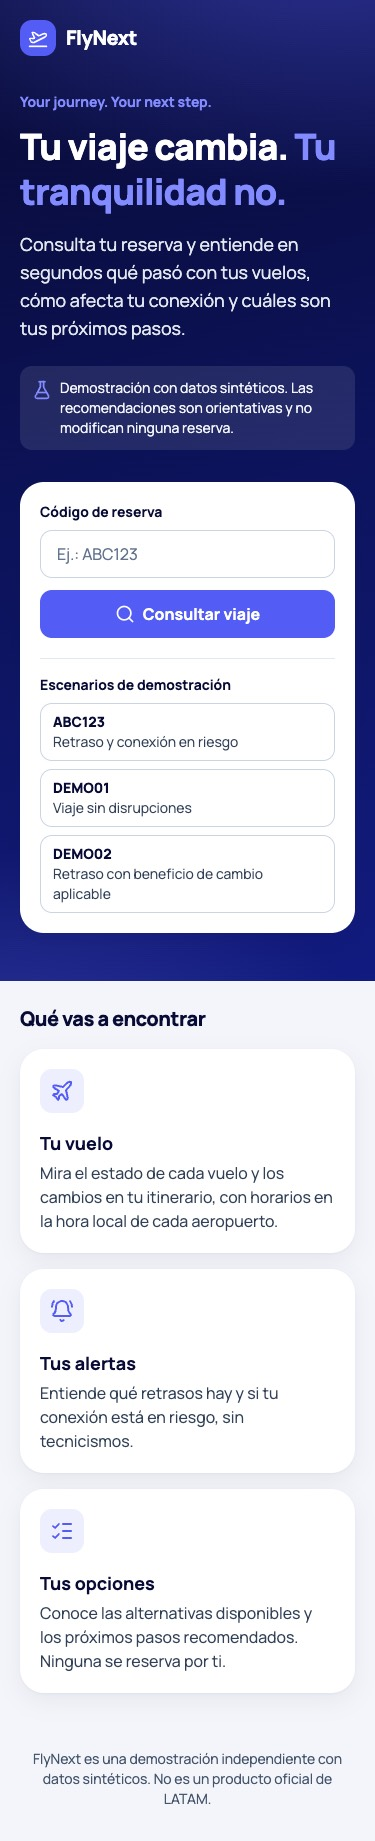
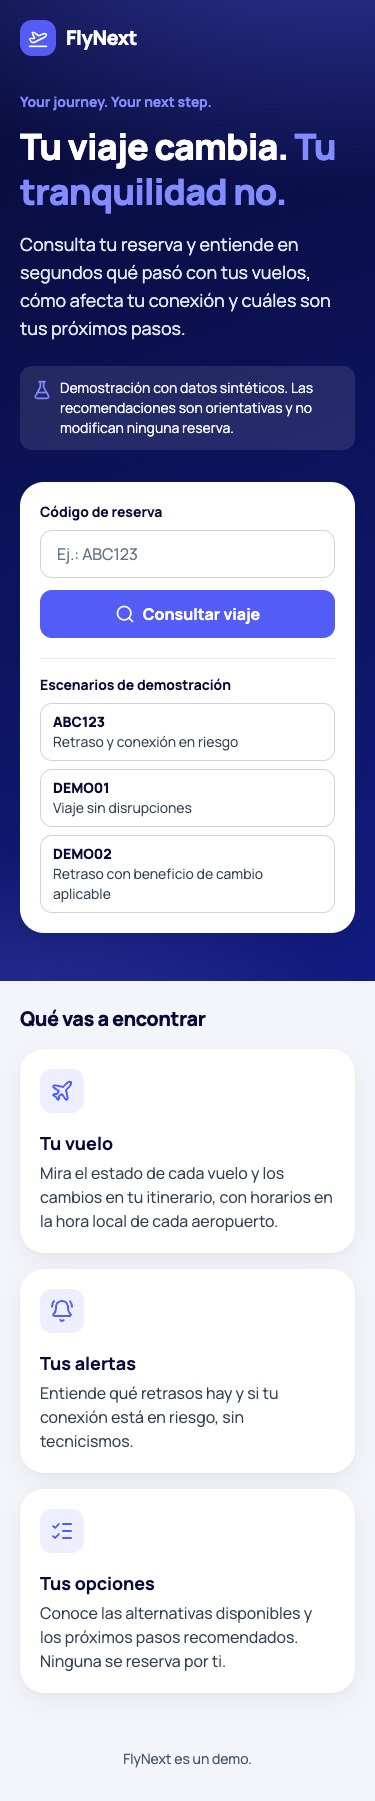
chore: present FlyNext as an independent demo

diff --git a/apps/api/src/disruption/presentation/present-assessment.test.ts b/apps/api/src/disruption/presentation/present-assessment.test.ts
@@ -190,9 +190,7 @@ describe("public assessment examples", () => {
       /atención prioritaria.*no podemos garantizar.*sin costo.*compensación/i,
     );
     expect(passengerCopy(dto)).toMatch(/no refleja información operacional en tiempo real/i);
-    expect(passengerCopy(dto)).not.toMatch(
-      /perdiste|conexión perdida|undefined|\bLATAM\b|[A-Z]+_[A-Z_]+/,
-    );
+    expect(passengerCopy(dto)).not.toMatch(/perdiste|conexión perdida|undefined|[A-Z]+_[A-Z_]+/);
   });
 
   it("changes the Spanish output with the flight, delay, gate and local time", async () => {

diff --git a/apps/api/src/app.test.ts b/apps/api/src/app.test.ts
@@ -646,7 +646,7 @@ describe("public information and documentation", () => {
     expect(response.json()).toEqual({
       name: "FlyNext",
       tagline: "Your journey. Your next step.",
-      notice: "Independent demonstration; not an official LATAM product.",
+      notice: "Independent demonstration with synthetic data.",
       docs: "/docs",
       health: "/health",
     });

diff --git a/apps/api/src/disruption/domain/config.ts b/apps/api/src/disruption/domain/config.ts
@@ -1,5 +1,5 @@
 /**
- * Product assumptions (not LATAM policy). Each value is configurable and awaits validation with
+ * Product assumptions (not an airline policy). Each value is configurable and awaits validation with
  * Product and Operations (D01, D03). Policy thresholds (R1 = 180, R2 = 240) are NOT here: they are
  * approved rule definitions in `policies.ts`.
  */

diff --git a/apps/api/src/http/public-api.ts b/apps/api/src/http/public-api.ts
@@ -5,7 +5,7 @@ export const PUBLIC_BOOKINGS = ["ABC123", "DEMO01", "DEMO02"] as const;
 export const serviceInfo = {
   name: "FlyNext",
   tagline: "Your journey. Your next step.",
-  notice: "Independent demonstration; not an official LATAM product.",
+  notice: "Independent demonstration with synthetic data.",
   docs: "/docs",
   health: "/health",
 };

diff --git a/apps/web/src/components/layout/footer.tsx b/apps/web/src/components/layout/footer.tsx
@@ -1,8 +1,7 @@
 export function Footer() {
   return (
     <footer className="mx-auto max-w-page px-5 py-8 text-center text-sm text-slate-600 sm:px-8">
-      FlyNext es una demostración independiente con datos sintéticos. No es un producto oficial de
-      LATAM.
+      FlyNext es un demo.
     </footer>
   );
 }

diff --git a/odd/tasks/flynext.md b/odd/tasks/flynext.md
@@ -1,13 +1,13 @@
 # FlyNext — ODD task file
 
-Independent demo for LATAM Senior SWE challenge, Case A (Disruption Companion). Primary track: Backend/Integration.
+Independent demo, Case A (Disruption Companion). Primary track: Backend/Integration.
 Source of truth for product: `docs/engineering/*`. This file tracks operational state. Workers: read until `## Log`; report which `S#` you covered.
 
 ## Specs
 
 Full text of D01–D10 lives in `docs/engineering/DOMAIN-DECISIONS.md`; the strings below are quoted from the approved Master Engineering Specification v1.0.
 
-- **S1 Identity.** Product "FlyNext"; repo "fly-next"; packages `@flynext/api`, `@flynext/web`, `@flynext/contracts`; tagline "Your journey. Your next step."; "FlyNext es una solución demostrativa independiente, no un producto oficial de LATAM."
+- **S1 Identity.** Product "FlyNext"; repo "fly-next"; packages `@flynext/api`, `@flynext/web`, `@flynext/contracts`; tagline "Your journey. Your next step."; "FlyNext es una solución demostrativa independiente, no un producto oficial de una aerolínea."
 - **S2 Challenge constraints.** "Presupuesto máximo efectivo: tres horas, incluyendo análisis, implementación, validación, documentación y preparación." Ten-minute presentation; public GitHub repo; API public over HTTPS; README ≤ 2 pages; AI Usage & Decision Note ≤ 1 page; reproducible evidence. "No reiniciar el presupuesto de tres horas."
 - **S3 Stack.** Node.js 24 LTS, TypeScript strict, pnpm workspaces, Fastify, React 19, Vite, Tailwind CSS v4, Axios, Zod, Vitest, Pino, Swagger/OpenAPI, ESLint, Prettier, tsup (if compatible), GitHub Actions, Railway, @fastify/static. "No incorporar Turborepo, NestJS, PostgreSQL, Redis, Prisma, servicios de mensajería ni frameworks adicionales sin autorización." Pin exact versions in PR-01; consult current docs (Context7) first.
 - **S4 Architecture.** Monorepo `apps/api`, `apps/web`, `packages/contracts`. Backend: pragmatic hexagonal, main module `disruption` with `domain`, `application`, `infrastructure`, `presentation`; cross-cutting: config, errors, HTTP client, observability. Manual DI, Ports & Adapters, DTO Mapper, Use Case; Strategy only on concrete need. "El dominio no depende de Fastify, Axios, React ni implementaciones de infraestructura." "No compartir entidades internas ni lógica de negocio con el frontend." No speculative abstractions or empty folders.
@@ -30,7 +30,7 @@ Full text of D01–D10 lives in `docs/engineering/DOMAIN-DECISIONS.md`; the stri
 - **S21 AI.** "No utilizar LLM ni agentes en runtime de V1." Document (not implement) a hybrid evolution: AI interprets/explains, deterministic engine is authority, read-tool allowlist, structured validated outputs, deterministic fallback, human approval for impactful ops, no LLM write access.
 - **S22 Security.** Synthetic fixtures only; no original PDF or process emails; no credentials/PII; no real env files; rate limiting; request size limit; sanitized errors; no stack traces; no full request body logging; read-only; document demo limitations. Review ODD/Engram/skills artifacts before publishing; no raw prompts, personal paths, auth config. Auth on real bookings is future work; "No simular mecanismos de seguridad inexistentes."
 - **S23 Testing.** Test-first when applicable. Priority: ABC123; source reconciliation; degraded sources; stale events; delay boundaries 179/180/239/240; international condition; at-risk vs confirmed missed; group with minor; insufficient seats; stale alternatives; incomplete fare conditions; provider failures; no PII in public DTO; REST contract via Fastify inject. Parameterized tests where clearer; no arbitrary coverage; no full E2E if time-constrained. Scenarios: ABC123 HUMAN_REVIEW; DEMO01 normal → NO_ACTION_REQUIRED; DEMO02 190-min delay, no-fee change; DEMO03 unresolved contradiction → INDETERMINATE; DEMO04 stale events → INDETERMINATE; DEMO05 international 250-min delay, no-fee change + voucher; DEMO06 confirmed missed connection, no-fee change. Prioritize ABC123 and critical scenarios. [A08] Public: ABC123, DEMO01, DEMO02; DEMO03–DEMO06 are test fixtures only.
-- **S24 Frontend.** Complementary; consumes real API; shows bookingId query, assessment status, itinerary, verified disruption, connection risk, recommendation, alternatives (verified/pending), loading/error/empty states, visible demo-mode label. Responsive, accessible. No business rules in React; no LATAM branding; no auth/admin/chatbot. May be cut to protect the primary track.
+- **S24 Frontend.** Complementary; consumes real API; shows bookingId query, assessment status, itinerary, verified disruption, connection risk, recommendation, alternatives (verified/pending), loading/error/empty states, visible demo-mode label. Responsive, accessible. No business rules in React; no airline branding; no auth/admin/chatbot. May be cut to protect the primary track.
 - **S25 Scripts.** `pnpm dev`, `dev:api`, `dev:web`, `build`, `build:api`, `build:web`, `start`, `start:api`, `test`, `lint`, `typecheck`, `check`. Pin Node and pnpm; commit lockfile; local/CI/Railway consistency.
 - **S26 Workflow.** ODD mandatory; this file is the task file; Engram mirror; work-unit-commits/chained-pr when applicable; test-first; RDD per risk and consent; inline for small tasks; no SDD/OpenSpec. "Cada PR constituye un límite de alcance autorizado." "No avanzar al siguiente PR sin autorización." No push, remote PR, merge, deploy or submission without specific authorization.
 - **S27 Docs & evidence.** Approved structure: AGENTS.md, odd/tasks/flynext.md, docs/engineering/{PRODUCT-SCOPE,ARCHITECTURE,DOMAIN-DECISIONS,API-CONTRACT}.md, docs/engineering/OBSERVABILITY.md (PR-04, G1), docs/evidence/{TOOLING,AI-DECISION-LOG}.md, docs/AI-USAGE.md (≤ 1 page), docs/DEMO.md, README.md (≤ 2 pages). No redundant docs. Engram is operational memory, not required to understand/run the project. "No fabricar evidencias."
@@ -90,9 +90,9 @@ Time reference (approved at G0; planning references, not measurements): budget 1
 
 **PR-05 Passenger Experience (20 min).** Frontend tests (deferred from PR-01 review); modern-web-guidance skill evaluated (S28); React 19 + Tailwind v4 app consuming the real API; states loading/error/empty; demo-mode label; responsive and accessible (keyboard, contrast, labels); served by Fastify at `/` without shadowing API routes; no business rules in React; design skills/MCP evaluated and recorded; cut allowed if it endangers PR-06/07.
 
-**PR-06 Engineering Documentation (25 min).** README ≤ 2 pages (problem, scope, decisions, alternatives, validation, automation limits, risks, next steps); `docs/AI-USAGE.md` ≤ 1 page; `docs/DEMO.md` presentation script (10 min); TOOLING.md and AI-DECISION-LOG.md reflect real usage; limitations declared; hybrid-AI evolution and write-contract design documented, not implemented.
+**PR-06 Engineering Documentation (25 min).** README ≤ 2 pages (problem, scope, decisions, alternatives, validation, automation limits, risks, next steps); `docs/AI-USAGE.md` ≤ 1 page; `docs/DEMO.md` presentation script (10 min); TOOLING.md and AI-DECISION-LOG.md reflect real usage; limitations declared; hybrid-AI evolution and write-contract design documented, not implemented. Independent identity: no reference to any airline brand or the challenge sponsor in README, docs, demo script, screenshots or metadata (case-insensitive search over the versioned tree must return no match).
 
-**PR-07 Release & Submission (15 min).** `pnpm check` green on clean clone and CI; public smoke tests on HTTPS (`/health`, `/docs`, ABC123 assessment); security/privacy sweep of repo and ODD/Engram/skills artifacts (no PII, secrets, raw prompts, personal paths); submission payload drafted; push/PR/merge/submit each separately authorized.
+**PR-07 Release & Submission (15 min).** `pnpm check` green on clean clone and CI; public smoke tests on HTTPS (`/health`, `/docs`, ABC123 assessment); security/privacy sweep of repo and ODD/Engram/skills artifacts (no PII, secrets, raw prompts, personal paths); submission payload drafted; push/PR/merge/submit each separately authorized. Independent identity: the case-insensitive brand search over the versioned tree and the PR/commit text must return no match before release (also recorded in AGENTS.md).
 
 ## Log
 
@@ -138,4 +138,5 @@ Time reference (approved at G0; planning references, not measurements): budget 1
 - **L25** (G4 closure): The maintainer authorized merge, Railway deployment and G4 closure. PR #4 (head `331259ba5486b1737365832083c7482b18c0b628`, PR CI run `45694387005` success, mergeable and clean) was merged preserving history as `a53fcd83b90f0886d5d18356f9902b46ddc0fd40` (parents `47994a3` and `331259b`; the merged tree equals the PR tree; only `docs/evidence/TOOLING.md` and `odd/tasks/flynext.md` differ from approved functional SHA `93c7ed5`). `main` CI run `45695022430` succeeded on the merge commit; the branch was not deleted. Railway: `LOG_LEVEL=info` set without redeploy (existing `HOST`, `NODE_ENV`, `RAILPACK_NODE_VERSION=24.15.0` kept; no new services or resources), then `railway up` from the clean `a53fcd8` checkout produced deployment `1322dfe1-614b-470d-acc8-c9f42eab8ff9` (SUCCESS) at https://flynext-api-production.up.railway.app; the previous deployment `8e462997-e14d-4331-b903-68fee81a258b` moved to REMOVING. Public smoke over HTTPS passed: `/` 200 informational, `/health` 200, `/docs` Swagger UI, `/docs/json` OpenAPI 3.1 with the assessment path; ABC123 200 PARTIAL/CRITICAL/AT_RISK/HUMAN_REVIEW/HIGH, LA500 delay CONFIRMED 160, gate 24, no executed actions, mode SIMULATION; DEMO01 200 COMPLETE/NO_ACTION_REQUIRED; DEMO02 200 COMPLETE/REVIEW_REBOOKING_OPTIONS with R1 REBOOK_NO_FEE APPLICABLE; invalid body 400 and unknown booking 404 as problem+json with matching `X-Request-Id`; unknown route 404 sanitized with no request ID (accepted, D01); DEMO03–DEMO06 return 404 BOOKING_NOT_FOUND on the public API (test fixtures only, A08). No names, emails, stack traces or paths in the assessment bodies. Railway logs showed correlated structured events (`provider.read` with `durationMs`, `assessment.completed`, `assessment.data_quality`) and no booking identifiers. Rate limiting: the limiter keys on the direct peer IP with `trustProxy` off; independence between clients behind the Railway proxy could not be demonstrated without exhausting the shared quota, so the documented limitation stands (R1-001, R4-002). Native review coverage remains partial as in L23; no integral native review is claimed; RDD stays off for this clone only. PR-05 not started; no skills installed.
 - **L26** (user, PR-05 authorization, 2026-11-25): "Autorizo iniciar e implementar PR-05 — Passenger Experience." Branch `feat/passenger-experience` from `bd6ab50`; local commits only; "No hacer push. No hacer merge. No desplegar en Railway. No cerrar G5. No iniciar PR-06. No activar RDD." Delivered: feature-first React app (`features/disruption`), Fetch client with timeout/abort/stale-response guard validated by the shared Zod schemas, eight UI states, `@fastify/static` integration (`GET /` serves the build; unknown routes keep the sanitized 404; API-only start when no build), 10 web tests and 4 static-integration tests. Node 24.15.0 / pnpm 12.16.1: frozen install, `pnpm check` (50 + 280 + 10), all builds, `git diff --check` and local smoke passed. Skills were evaluated read-only and not installed (see TOOLING.md). Open: keyboard/contrast/screen-reader audit was not tooling-verified; UI tests were not test-first. Commits: f79fe3d (dependencies), 566cb01 (static serving), d132b25 (web app), docs commit; about 1.6k authored lines, past the ~400 guideline (about 380 are generated synthetic JSON fixtures and 500 are tests), kept as one cohesive web unit. G5 stays open; PR-06 not started.
 - **L27** (user, PR-05 visual polish, 2026-11-25): "Autorizo una última intervención exclusivamente visual antes de publicar PR-05." Scope: home overview cards (Tu vuelo / Tus alertas / Tus opciones, informational), two-line headline with Soft Indigo second line, assessment refinements (large delay minutes and gate tiles, dashed Lucide route line, two-column result header), no backend, contract, dependency or architecture change. Done in one visual commit; `pnpm check` (50 + 280 + 10), `pnpm build` and `git diff --check` passed; four screenshots regenerated; no horizontal overflow at 375/390/768/1024/1440 px. Bounded accessibility check (computed, no tools installed): Soft Indigo on Midnight 6.39:1 and on Deep Blue 4.75:1 (about 3.6:1 only inside the top-right glow, large text); white on Primary Indigo 4.98:1; focus ring Indigo 3.8:1 on Midnight and 4.98:1 on white; secondary slate text 6.9-10.4:1; keyboard Tab order input, submit, three scenarios with a 3 px visible focus ring confirmed in Chrome. Screen reader still not audited. No push, merge or deploy; G5 open; PR-06 not started.
+- **L28** (user, independent identity, 2026-11-25): "FlyNext debe presentarse como un producto independiente." Removed every textual reference to the airline brand and challenge sponsor from AGENTS.md, ODD file, docs, package description, API service-info notice and its test, a domain comment, a test regex and the web footer, now "FlyNext es un demo."; synthetic-data and advisory notices kept; flight identifiers, scenarios, contracts and rules untouched. Constraint added to AGENTS.md ("Independent identity") and to the PR-06 and PR-07 criteria; the brand name itself is deliberately not written in those lines. Screenshots regenerated. Verification: case-insensitive search over versioned files returned no match.
 

diff --git a/docs/engineering/PRODUCT-SCOPE.md b/docs/engineering/PRODUCT-SCOPE.md
@@ -2,7 +2,7 @@
 
 > Status: PR-00 proposal for maintainer review. Derived from the approved Master Engineering Specification v1.0.
 
-FlyNext is an independent demo, **not an official LATAM product**. Challenge: LATAM Senior Software Engineer, Case A — Disruption Companion. Primary track: Backend/Integration. Tagline: *Your journey. Your next step.*
+FlyNext is an independent demo, **not an official airline product**. Case A — Disruption Companion. Primary track: Backend/Integration. Tagline: *Your journey. Your next step.*
 
 ## Goal
 
@@ -20,7 +20,7 @@ Reduce passenger uncertainty during operational disruptions with verified inform
 
 - Any write operation: rebooking, compensation, refund, human-case creation, notifications, booking changes (designed as future contracts only).
 - LLM/agents at runtime (hybrid evolution documented only).
-- Authentication/authorization on real bookings, real airline systems, databases, queues, circuit breakers, admin dashboard, chatbot, official LATAM branding.
+- Authentication/authorization on real bookings, real airline systems, databases, queues, circuit breakers, admin dashboard, chatbot, official airline branding.
 - Real-time operational data: fixtures are historical and evaluated in an explicit simulation mode.
 
 ## Constraints
@@ -39,7 +39,7 @@ Three-hour total budget (analysis included, never restarted); 10-minute presenta
 | Scope decisions | read-only V1, frontend complementary |
 | Security constraints | synthetic data only, PII minimization, sanitized errors, rate limiting |
 
-Thresholds, freshness windows, source hierarchy and group-keeping **require validation with Product, Operations or system owners before any real implementation** and are not LATAM policy.
+Thresholds, freshness windows, source hierarchy and group-keeping **require validation with Product, Operations or system owners before any real implementation** and are not airline policy.
 
 ## Demo scenarios
 

diff --git a/AGENTS.md b/AGENTS.md
@@ -1,6 +1,6 @@
 # FlyNext — Permanent Agent Constraints
 
-FlyNext (repo `fly-next`) is an independent demo for the LATAM Senior Software Engineer challenge, Case A (Disruption Companion). It is **not** an official LATAM product. Tagline: *Your journey. Your next step.*
+FlyNext (repo `fly-next`) is an independent demo (Case A, Disruption Companion). It is **not** an official airline product. Tagline: *Your journey. Your next step.*
 
 The human maintainer owns product, architecture, scope, security, implementation and deployment decisions. Approved decisions (see `docs/engineering/DOMAIN-DECISIONS.md`) must not be reinterpreted, replaced or extended. Report contradictions to the maintainer before changing anything.
 
@@ -27,6 +27,10 @@ The human maintainer owns product, architecture, scope, security, implementation
 - Public repo and public API: synthetic fixtures only. No PII, credentials, local environment-file values, original challenge PDF, process emails, raw prompts, personal paths or auth config.
 - Public DTOs and logs use allowlists/mappers; no passenger names, documents, emails, phones, exact ages or raw provider payloads.
 - Errors are sanitized; no stack traces.
+
+## Independent identity
+
+No reference to any airline brand or to the challenge sponsor in any public file: source, UI copy, metadata, docs, fixtures, comments, graphics, screenshots, commit messages or PR text. Neutral wording such as "the airline" or "an agent of the airline" is allowed. Before publishing and at release, verify with a case-insensitive search over the versioned tree (the brand name must return no match).
 
 ## Language
 

diff --git a/docs/engineering/API-CONTRACT.md b/docs/engineering/API-CONTRACT.md
@@ -181,7 +181,7 @@ interface PassengerMessage {
 - Facts, estimates and uncertainty use different wording ("confirmado", "estimamos", "todavía no está verificado"). A projected arrival is always labelled as an estimate.
 - Never guarantee availability, no-fee changes, compensation or refunds; never claim an action was performed ("esto es una recomendación: no hemos realizado ninguna acción").
 - No internal enum names, reason codes, source names, contradiction details, minor/age data or counts of seats. The priority for a group with a minor is expressed as "atención prioritaria" (A05).
-- No LATAM branding; "un agente de la aerolínea".
+- No airline branding; "un agente de la aerolínea".
 - No duplicated sentences between sections; tone informative, not alarmist (severity drives style in the UI, not exclamation in the text).
 - Times are rendered in the airport's own zone with its name ("17:10 (hora de Santiago)"); dates in short Spanish form.
 

diff --git a/docs/engineering/DOMAIN-DECISIONS.md b/docs/engineering/DOMAIN-DECISIONS.md
@@ -1,6 +1,6 @@
 # FlyNext — Domain Decisions (D01–D10)
 
-> Approved by the maintainer in Master Engineering Specification v1.0. Preserved here without reinterpretation. Items marked **[assumption]** need validation with Product, Operations or system owners and are not LATAM policy.
+> Approved by the maintainer in Master Engineering Specification v1.0. Preserved here without reinterpretation. Items marked **[assumption]** need validation with Product, Operations or system owners and are not airline policy.
 
 ## Base case ABC123
 
